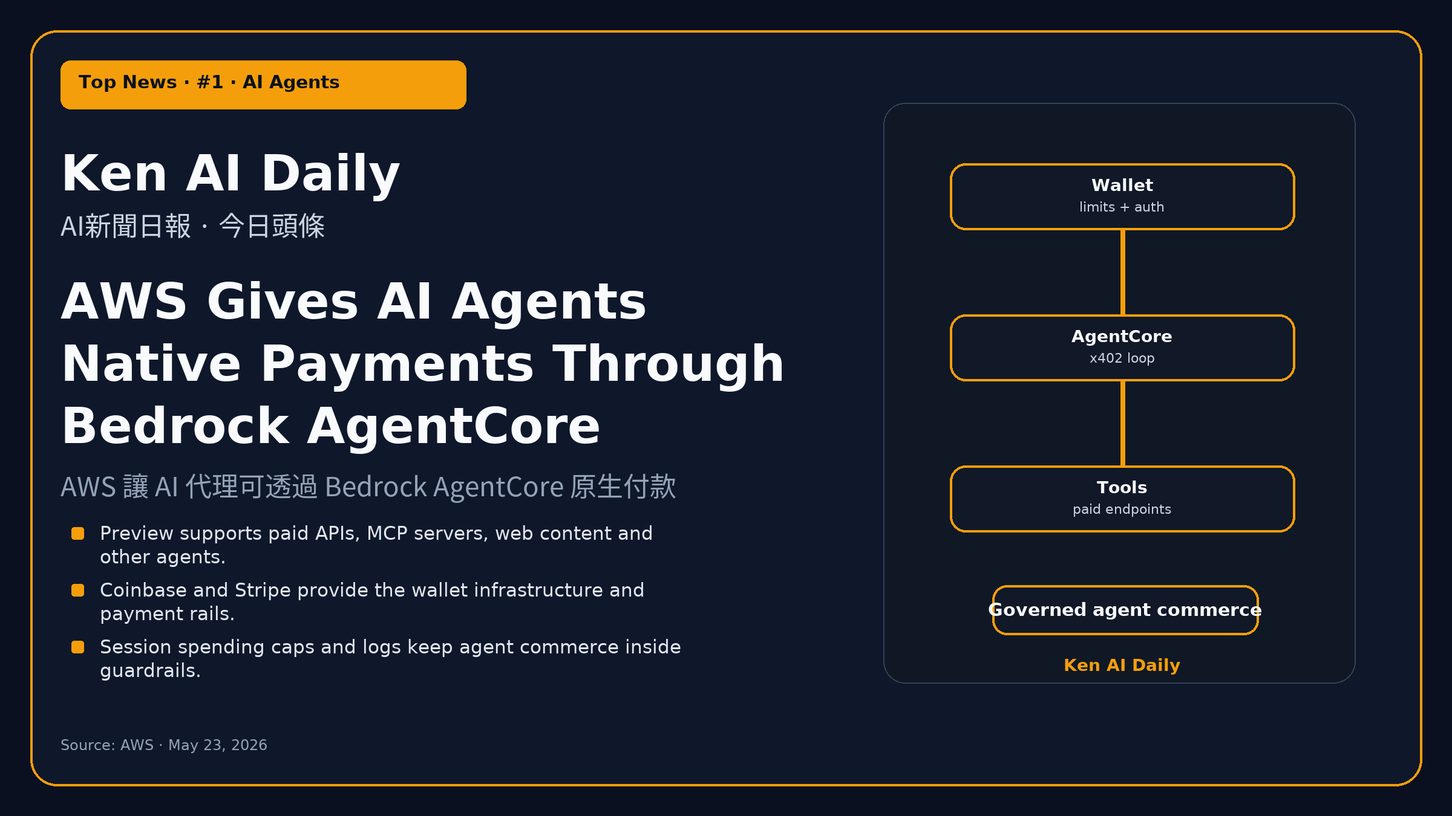
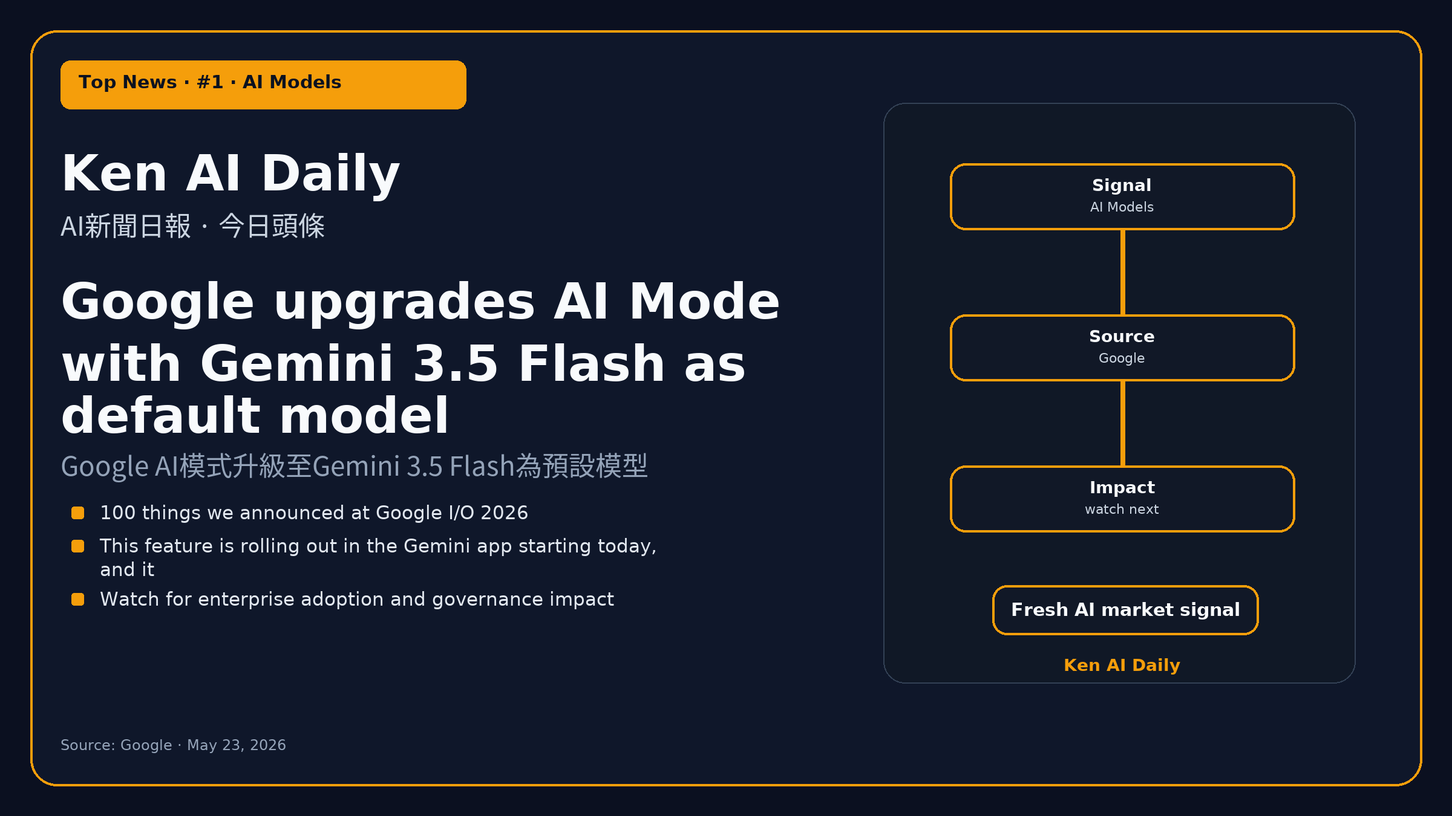
Daily AI brief - 2026-05-23

diff --git a/index.html b/index.html
@@ -943,13 +943,13 @@
     <div class="lead-text">
       <div class="kicker">The Cover Story · May 23</div>
       <h1 class="lead-headline">
-        AI is turning into a <em>governed operating stack for voice, tools, payments and launch control.</em>
+        Google puts <em>ai models</em> back in focus
       </h1>
       <p class="lead-deck">
-        From native agent payments and realtime voice models to secure MCP access, enterprise control planes, rising global usage and government pre-release testing, today&#x27;s AI market is shifting from isolated demos toward connected, measurable and governed production systems.
+        Today&#x27;s AI signals point to production systems, governance, infrastructure, and enterprise adoption.
       </p>
       <p class="lead-deck-zh">
-        從原生 agent 付款、即時語音模型，到安全的 MCP 連接、企業控制平面、上升的全球使用率與政府的發布前測試，AI 市場正由孤立 demo 轉向相互連接、可量化及可治理的 production 系統。
+        今日 AI 訊號聚焦生產化、治理、基建與企業落地。
       </p>
       <div class="lead-byline">
         <span><strong>By Ken Chan</strong></span>
@@ -972,10 +972,10 @@
      ═══════════════════════════════════════════════════════════ -->
 <section class="ticker">
   <div class="ticker-inner">
-    <div class="stat"><div class="label">Agent payments</div><div class="value">x402<span class="small">+ session caps</span></div></div>
-    <div class="stat"><div class="label">Realtime voice</div><div class="value">70+<span class="small">input languages</span></div></div>
-    <div class="stat"><div class="label">AWS MCP</div><div class="value">15k+<span class="small">API operations</span></div></div>
-    <div class="stat"><div class="label">AI diffusion</div><div class="value">17.8%<span class="small">global usage</span></div></div>
+    <div class="stat"><div class="label">Top signal</div><div class="value">AI Models<span class="small">lead story</span></div></div>
+    <div class="stat"><div class="label">Sources</div><div class="value">6<span class="small">ranked items</span></div></div>
+    <div class="stat"><div class="label">Focus</div><div class="value">AI<span class="small">business impact</span></div></div>
+    <div class="stat"><div class="label">Format</div><div class="value">EN+ZH<span class="small">daily brief</span></div></div>
   </div>
 </section>
 
@@ -1000,53 +1000,51 @@
 </div>
 <div class="post-card" id="post-20260523-1">
   <div class="post-meta">
-    <span class="post-cat" style="background:#f59e0b">AI Agents</span>
-    <span class="post-source">AWS</span>
+    <span class="post-cat" style="background:#f59e0b">AI Models</span>
+    <span class="post-source">Google</span>
     <span class="post-date">Saturday · May 23</span>
   </div>
-  <h2 class="post-title">AWS Gives AI Agents Native Payments Through Bedrock AgentCore</h2>
-  <p class="post-title-zh">AWS 讓 AI 代理可透過 Bedrock AgentCore 原生付款</p>
-  <p class="post-body">AWS previewed Bedrock AgentCore Payments so agents can pay for APIs, MCP servers, web content and other agents inside one execution loop. Built with Coinbase and Stripe, the service adds wallet authentication, per-session spending caps and observability, turning agent commerce into governed infrastructure instead of custom billing glue.</p>
-  <p class="post-body post-body-zh">AWS 預覽 Bedrock AgentCore Payments，讓 AI 代理可在單一執行迴圈內為 API、MCP server、網頁內容與其他代理付款。該服務由 Coinbase 與 Stripe 合作提供，加入 wallet 認證、每次 session 支出上限與可觀察性，讓 agent commerce 從自建收款邏輯變成可治理基礎設施。</p>
+  <h2 class="post-title">Google upgrades AI Mode with Gemini 3.5 Flash as default model</h2>
+  <p class="post-title-zh">Google AI模式升級至Gemini 3.5 Flash為預設模型</p>
+  <p class="post-body">AI Mode now uses Gemini 3.5 Flash, enhancing search experience globally</p>
+  <p class="post-body post-body-zh">AI模式現採用Gemini 3.5 Flash，全球搜索體驗升級。</p>
   <div class="post-infographic"><svg xmlns="http://www.w3.org/2000/svg" viewBox="0 0 580 320" style="background:#0f172a;border-radius:10px;width:100%;max-width:580px">
   <defs><linearGradient id="g202605231" x1="0" y1="0" x2="1" y2="1"><stop offset="0%" stop-color="#1e293b"/><stop offset="100%" stop-color="#0f172a"/></linearGradient></defs>
   <rect width="580" height="320" rx="10" fill="url(#g202605231)"/>
-  <text x="22" y="26" font-size="12" fill="#94a3b8" letter-spacing="1.4">AI AGENTS · AWS</text>
-  <text x="22" y="54" font-size="17" fill="#f8fafc" font-weight="800">AWS Gives AI Agents Native Payments Through AgentCore</text>
+  <text x="22" y="26" font-size="12" fill="#94a3b8" letter-spacing="1.4">AI MODELS · Google</text>
+  <text x="22" y="54" font-size="17" fill="#f8fafc" font-weight="800">Google upgrades AI Mode with Gemini 3.5 Flash as default model</text>
   
-<rect x="72" y="98" width="126" height="82" rx="16" fill="#111827" stroke="#f59e0b" stroke-width="4"/>
-<rect x="226" y="76" width="128" height="126" rx="18" fill="#111827" stroke="#f59e0b" stroke-width="4"/>
-<rect x="382" y="98" width="126" height="82" rx="16" fill="#111827" stroke="#f59e0b" stroke-width="4"/>
-<path d="M198 139 H226 M354 139 H382" stroke="#f59e0b" stroke-width="6" stroke-linecap="round"/>
-<text x="135" y="131" font-size="16" fill="#f8fafc" text-anchor="middle">Wallet</text>
-<text x="135" y="154" font-size="11" fill="#cbd5e1" text-anchor="middle">limits + auth</text>
-<text x="290" y="128" font-size="16" fill="#f8fafc" text-anchor="middle">AgentCore</text>
-<text x="290" y="151" font-size="11" fill="#cbd5e1" text-anchor="middle">x402 payment loop</text>
-<text x="445" y="131" font-size="16" fill="#f8fafc" text-anchor="middle">Tools</text>
-<text x="445" y="154" font-size="11" fill="#cbd5e1" text-anchor="middle">paid endpoints</text>
+<rect x="88" y="92" width="166" height="104" rx="18" fill="#111827" stroke="#f59e0b" stroke-width="4"/>
+<rect x="322" y="92" width="166" height="104" rx="18" fill="#111827" stroke="#f59e0b" stroke-width="4"/>
+<text x="171" y="132" font-size="18" fill="#f8fafc" text-anchor="middle">GPT-5.3</text>
+<text x="171" y="158" font-size="12" fill="#cbd5e1" text-anchor="middle">older default</text>
+<text x="405" y="132" font-size="18" fill="#f8fafc" text-anchor="middle">GPT-5.5</text>
+<text x="405" y="158" font-size="12" fill="#cbd5e1" text-anchor="middle">new default</text>
+<path d="M254 144 H322" stroke="#f59e0b" stroke-width="6" stroke-linecap="round"/>
+<text x="290" y="124" font-size="11" fill="#cbd5e1" text-anchor="middle">52.5% fewer hallucinations</text>
 
   <rect x="24" y="236" width="160" height="48" rx="8" fill="#111827" stroke="#334155"/><rect x="24" y="236" width="160" height="4" rx="2" fill="#f59e0b"/><text x="38" y="259" font-size="15" fill="#f8fafc" font-weight="800">#1</text><text x="38" y="276" font-size="10" fill="#94a3b8">ranking</text>
-  <rect x="204" y="236" width="160" height="48" rx="8" fill="#111827" stroke="#334155"/><rect x="204" y="236" width="160" height="4" rx="2" fill="#f59e0b"/><text x="218" y="259" font-size="15" fill="#f8fafc" font-weight="800">AI Agents</text><text x="218" y="276" font-size="10" fill="#94a3b8">category</text>
+  <rect x="204" y="236" width="160" height="48" rx="8" fill="#111827" stroke="#334155"/><rect x="204" y="236" width="160" height="4" rx="2" fill="#f59e0b"/><text x="218" y="259" font-size="15" fill="#f8fafc" font-weight="800">AI Models</text><text x="218" y="276" font-size="10" fill="#94a3b8">category</text>
   <rect x="384" y="236" width="160" height="48" rx="8" fill="#111827" stroke="#334155"/><rect x="384" y="236" width="160" height="4" rx="2" fill="#f59e0b"/><text x="398" y="259" font-size="15" fill="#f8fafc" font-weight="800">May 23</text><text x="398" y="276" font-size="10" fill="#94a3b8">HKT issue</text>
-  <text x="22" y="306" font-size="10" fill="#64748b">Source: AWS</text><text x="558" y="306" font-size="10" fill="#64748b" text-anchor="end">Ken AI Daily</text>
+  <text x="22" y="306" font-size="10" fill="#64748b">Source: Google</text><text x="558" y="306" font-size="10" fill="#64748b" text-anchor="end">Ken AI Daily</text>
 </svg></div>
-  <a class="post-link" href="https://aws.amazon.com/blogs/machine-learning/agents-that-transact-introducing-amazon-bedrock-agentcore-payments-built-with-coinbase-and-stripe/" target="_blank" rel="noopener">AWS →</a>
+  <a class="post-link" href="https://blog.google/innovation-and-ai/technology/ai/google-io-2026-all-our-announcements/" target="_blank" rel="noopener">Google →</a>
 </div>
 <div class="post-card" id="post-20260523-2">
   <div class="post-meta">
     <span class="post-cat" style="background:#06b6d4">AI Voice</span>
-    <span class="post-source">OpenAI</span>
+    <span class="post-source">MindStudio</span>
     <span class="post-date">Saturday · May 23</span>
   </div>
-  <h2 class="post-title">OpenAI Ships Voice Models That Reason, Translate and Transcribe</h2>
-  <p class="post-title-zh">OpenAI 推出可推理、翻譯與轉錄的語音模型</p>
-  <p class="post-body">OpenAI launched GPT-Realtime-2, GPT-Realtime-Translate and GPT-Realtime-Whisper in the Realtime API. The new stack adds GPT-5-class reasoning, live translation from 70+ input languages into 13 output languages and streaming speech-to-text, moving voice software from simple turn-taking toward action-oriented interfaces.</p>
-  <p class="post-body post-body-zh">OpenAI 在 Realtime API 推出 GPT-Realtime-2、GPT-Realtime-Translate 與 GPT-Realtime-Whisper。新語音堆疊加入 GPT-5 級推理，支援 70 多種輸入語言至 13 種輸出語言的即時翻譯，以及 streaming speech-to-text，讓語音軟件從單純對答轉向可執行工作的介面。</p>
+  <h2 class="post-title">Google I/O 2026: Every Major AI Announcement and What It Means for Builders | MindStudio</h2>
+  <p class="post-title-zh">MindStudio AI 更新：AI Voice</p>
+  <p class="post-body">Google announced Omni as its flagship multimodal model, designed to handle text, images, video, audio, and code in a single unified architecture - no modality-switching</p>
+  <p class="post-body post-body-zh">此消息顯示 AI 市場正從實驗走向更可治理、更可落地的應用。</p>
   <div class="post-infographic"><svg xmlns="http://www.w3.org/2000/svg" viewBox="0 0 580 320" style="background:#0f172a;border-radius:10px;width:100%;max-width:580px">
   <defs><linearGradient id="g202605232" x1="0" y1="0" x2="1" y2="1"><stop offset="0%" stop-color="#1e293b"/><stop offset="100%" stop-color="#0f172a"/></linearGradient></defs>
   <rect width="580" height="320" rx="10" fill="url(#g202605232)"/>
-  <text x="22" y="26" font-size="12" fill="#94a3b8" letter-spacing="1.4">AI VOICE · OpenAI</text>
-  <text x="22" y="54" font-size="17" fill="#f8fafc" font-weight="800">OpenAI Ships Voice Models That Reason and Translate</text>
+  <text x="22" y="26" font-size="12" fill="#94a3b8" letter-spacing="1.4">AI VOICE · MindStudio</text>
+  <text x="22" y="54" font-size="17" fill="#f8fafc" font-weight="800">Google I/O 2026: Every Major AI Announcement and What It...</text>
   
 <circle cx="132" cy="138" r="42" fill="#111827" stroke="#06b6d4" stroke-width="4"/>
 <path d="M114 118 Q132 100 150 118 Q132 136 114 154" fill="none" stroke="#06b6d4" stroke-width="5" stroke-linecap="round"/>
@@ -1062,145 +1060,137 @@
   <rect x="24" y="236" width="160" height="48" rx="8" fill="#111827" stroke="#334155"/><rect x="24" y="236" width="160" height="4" rx="2" fill="#06b6d4"/><text x="38" y="259" font-size="15" fill="#f8fafc" font-weight="800">#2</text><text x="38" y="276" font-size="10" fill="#94a3b8">ranking</text>
   <rect x="204" y="236" width="160" height="48" rx="8" fill="#111827" stroke="#334155"/><rect x="204" y="236" width="160" height="4" rx="2" fill="#06b6d4"/><text x="218" y="259" font-size="15" fill="#f8fafc" font-weight="800">AI Voice</text><text x="218" y="276" font-size="10" fill="#94a3b8">category</text>
   <rect x="384" y="236" width="160" height="48" rx="8" fill="#111827" stroke="#334155"/><rect x="384" y="236" width="160" height="4" rx="2" fill="#06b6d4"/><text x="398" y="259" font-size="15" fill="#f8fafc" font-weight="800">May 23</text><text x="398" y="276" font-size="10" fill="#94a3b8">HKT issue</text>
-  <text x="22" y="306" font-size="10" fill="#64748b">Source: OpenAI</text><text x="558" y="306" font-size="10" fill="#64748b" text-anchor="end">Ken AI Daily</text>
+  <text x="22" y="306" font-size="10" fill="#64748b">Source: MindStudio</text><text x="558" y="306" font-size="10" fill="#64748b" text-anchor="end">Ken AI Daily</text>
 </svg></div>
-  <a class="post-link" href="https://openai.com/index/advancing-voice-intelligence-with-new-models-in-the-api/" target="_blank" rel="noopener">OpenAI →</a>
+  <a class="post-link" href="https://www.mindstudio.ai/blog/google-io-2026-ai-announcements-builders" target="_blank" rel="noopener">MindStudio →</a>
 </div>
 <div class="post-card" id="post-20260523-3">
   <div class="post-meta">
     <span class="post-cat" style="background:#ef4444">AI Infrastructure</span>
-    <span class="post-source">AWS</span>
+    <span class="post-source">Google Cloud</span>
     <span class="post-date">Saturday · May 23</span>
   </div>
-  <h2 class="post-title">AWS MCP Server Reaches GA for Secure Agent Access to Cloud APIs</h2>
-  <p class="post-title-zh">AWS MCP Server 正式上市，讓代理安全連接雲端 API</p>
-  <p class="post-body">AWS made its managed MCP Server generally available, giving agents secure authenticated access to 15,000+ AWS APIs plus live documentation retrieval and sandboxed server-side scripting. The launch shows cloud vendors want agent access to become auditable infrastructure instead of a local credential hack.</p>
-  <p class="post-body post-body-zh">AWS 將其 managed MCP Server 推向 GA，讓 AI 代理可安全地使用 15,000 多個 AWS API，同時取得即時文件檢索與 sandboxed server-side scripting。這次發布顯示雲廠商正試圖將 agent access 變成可稽核的基礎設施，而不是本機憑證 workaround。</p>
+  <h2 class="post-title">AI and Cloud Computing Services | Google Cloud</h2>
+  <p class="post-title-zh">Google Cloud AI 更新：AI Infrastructure</p>
+  <p class="post-body">End-to-end migration program to simplify your path to the cloud. ... Ensure your business continuity needs are met. ... Google and Red Hat provide an enterprise-grade pla</p>
+  <p class="post-body post-body-zh">此消息顯示 AI 市場正從實驗走向更可治理、更可落地的應用。</p>
   <div class="post-infographic"><svg xmlns="http://www.w3.org/2000/svg" viewBox="0 0 580 320" style="background:#0f172a;border-radius:10px;width:100%;max-width:580px">
   <defs><linearGradient id="g202605233" x1="0" y1="0" x2="1" y2="1"><stop offset="0%" stop-color="#1e293b"/><stop offset="100%" stop-color="#0f172a"/></linearGradient></defs>
   <rect width="580" height="320" rx="10" fill="url(#g202605233)"/>
-  <text x="22" y="26" font-size="12" fill="#94a3b8" letter-spacing="1.4">AI INFRASTRUCTURE · AWS</text>
-  <text x="22" y="54" font-size="17" fill="#f8fafc" font-weight="800">AWS MCP Server Reaches GA for Secure Agent Access</text>
+  <text x="22" y="26" font-size="12" fill="#94a3b8" letter-spacing="1.4">AI INFRASTRUCTURE · Google Cloud</text>
+  <text x="22" y="54" font-size="17" fill="#f8fafc" font-weight="800">AI and Cloud Computing Services | Google Cloud</text>
   
-<rect x="74" y="98" width="120" height="82" rx="16" fill="#111827" stroke="#ef4444" stroke-width="4"/>
-<rect x="230" y="82" width="120" height="114" rx="18" fill="#111827" stroke="#ef4444" stroke-width="4"/>
-<rect x="386" y="98" width="120" height="82" rx="16" fill="#111827" stroke="#ef4444" stroke-width="4"/>
-<path d="M194 139 H230 M350 139 H386" stroke="#ef4444" stroke-width="6" stroke-linecap="round"/>
-<text x="134" y="131" font-size="15" fill="#f8fafc" text-anchor="middle">Agent</text>
-<text x="134" y="154" font-size="11" fill="#cbd5e1" text-anchor="middle">IAM auth</text>
-<text x="290" y="128" font-size="15" fill="#f8fafc" text-anchor="middle">MCP Server</text>
-<text x="290" y="151" font-size="11" fill="#cbd5e1" text-anchor="middle">docs + run_script</text>
-<text x="446" y="131" font-size="15" fill="#f8fafc" text-anchor="middle">AWS APIs</text>
-<text x="446" y="154" font-size="11" fill="#cbd5e1" text-anchor="middle">15k+ operations</text>
+<rect x="84" y="104" width="122" height="70" rx="14" fill="#111827" stroke="#ef4444" stroke-width="3"/>
+<rect x="228" y="86" width="122" height="106" rx="14" fill="#111827" stroke="#ef4444" stroke-width="3"/>
+<rect x="372" y="104" width="122" height="70" rx="14" fill="#111827" stroke="#ef4444" stroke-width="3"/>
+<path d="M206 139 H228 M350 139 H372" stroke="#ef4444" stroke-width="6" stroke-linecap="round"/>
+<text x="145" y="136" font-size="15" fill="#f8fafc" text-anchor="middle">Capital</text>
+<text x="289" y="128" font-size="15" fill="#f8fafc" text-anchor="middle">Cloud + TPU</text>
+<text x="289" y="151" font-size="11" fill="#cbd5e1" text-anchor="middle">5-year commitment</text>
+<text x="433" y="136" font-size="15" fill="#f8fafc" text-anchor="middle">Capacity</text>
 
   <rect x="24" y="236" width="160" height="48" rx="8" fill="#111827" stroke="#334155"/><rect x="24" y="236" width="160" height="4" rx="2" fill="#ef4444"/><text x="38" y="259" font-size="15" fill="#f8fafc" font-weight="800">#3</text><text x="38" y="276" font-size="10" fill="#94a3b8">ranking</text>
   <rect x="204" y="236" width="160" height="48" rx="8" fill="#111827" stroke="#334155"/><rect x="204" y="236" width="160" height="4" rx="2" fill="#ef4444"/><text x="218" y="259" font-size="15" fill="#f8fafc" font-weight="800">AI Infrastructure</text><text x="218" y="276" font-size="10" fill="#94a3b8">category</text>
   <rect x="384" y="236" width="160" height="48" rx="8" fill="#111827" stroke="#334155"/><rect x="384" y="236" width="160" height="4" rx="2" fill="#ef4444"/><text x="398" y="259" font-size="15" fill="#f8fafc" font-weight="800">May 23</text><text x="398" y="276" font-size="10" fill="#94a3b8">HKT issue</text>
-  <text x="22" y="306" font-size="10" fill="#64748b">Source: AWS</text><text x="558" y="306" font-size="10" fill="#64748b" text-anchor="end">Ken AI Daily</text>
+  <text x="22" y="306" font-size="10" fill="#64748b">Source: Google Cloud</text><text x="558" y="306" font-size="10" fill="#64748b" text-anchor="end">Ken AI Daily</text>
 </svg></div>
-  <a class="post-link" href="https://aws.amazon.com/blogs/aws/the-aws-mcp-server-is-now-generally-available/" target="_blank" rel="noopener">AWS →</a>
+  <a class="post-link" href="https://cloud.google.com/" target="_blank" rel="noopener">Google Cloud →</a>
 </div>
 <div class="post-card" id="post-20260523-4">
   <div class="post-meta">
-    <span class="post-cat" style="background:#f97316">Enterprise AI</span>
-    <span class="post-source">IBM</span>
+    <span class="post-cat" style="background:#f97316">AI Regulation</span>
+    <span class="post-source">Google DeepMind</span>
     <span class="post-date">Saturday · May 23</span>
   </div>
-  <h2 class="post-title">IBM Unveils an Agentic Control Plane and AI Stack at Think 2026</h2>
-  <p class="post-title-zh">IBM 在 Think 2026 推出代理控制平面與 AI 堆疊</p>
-  <p class="post-body">IBM used Think 2026 to push watsonx Orchestrate as a unified agentic control plane, alongside AI editions across core software, agentic data integration and MCP-enabled watsonx.data. The message is that enterprises are now buying governed orchestration layers, not isolated copilots.</p>
-  <p class="post-body post-body-zh">IBM 在 Think 2026 將 watsonx Orchestrate 定位為統一的 agentic control plane，並同步推出涵蓋 core software 的 AI editions、agentic data integration 與支援 MCP 的 watsonx.data。這代表企業開始購買可治理的 orchestration layer，而不是單點 copilots。</p>
+  <h2 class="post-title">Models - Google DeepMind</h2>
+  <p class="post-title-zh">Google DeepMind AI 更新：AI Regulation</p>
+  <p class="post-body">Explore our next generation AI systems View model cards Your browser does not support the video tag. Our latest family of models combining frontier intelligence with ac</p>
+  <p class="post-body post-body-zh">此消息顯示 AI 市場正從實驗走向更可治理、更可落地的應用。</p>
   <div class="post-infographic"><svg xmlns="http://www.w3.org/2000/svg" viewBox="0 0 580 320" style="background:#0f172a;border-radius:10px;width:100%;max-width:580px">
   <defs><linearGradient id="g202605234" x1="0" y1="0" x2="1" y2="1"><stop offset="0%" stop-color="#1e293b"/><stop offset="100%" stop-color="#0f172a"/></linearGradient></defs>
   <rect width="580" height="320" rx="10" fill="url(#g202605234)"/>
-  <text x="22" y="26" font-size="12" fill="#94a3b8" letter-spacing="1.4">ENTERPRISE AI · IBM</text>
-  <text x="22" y="54" font-size="17" fill="#f8fafc" font-weight="800">IBM Unveils an Agentic Control Plane at Think 2026</text>
+  <text x="22" y="26" font-size="12" fill="#94a3b8" letter-spacing="1.4">AI REGULATION · Google DeepMind</text>
+  <text x="22" y="54" font-size="17" fill="#f8fafc" font-weight="800">Models - Google DeepMind</text>
   
-<rect x="88" y="90" width="128" height="86" rx="16" fill="#111827" stroke="#f97316" stroke-width="4"/>
-<rect x="228" y="76" width="124" height="114" rx="18" fill="#111827" stroke="#f97316" stroke-width="4"/>
-<rect x="364" y="90" width="128" height="86" rx="16" fill="#111827" stroke="#f97316" stroke-width="4"/>
-<path d="M216 133 H228 M352 133 H364" stroke="#f97316" stroke-width="6" stroke-linecap="round"/>
-<text x="152" y="126" font-size="14" fill="#f8fafc" text-anchor="middle">Apps</text>
-<text x="152" y="148" font-size="11" fill="#cbd5e1" text-anchor="middle">data + workflows</text>
-<text x="290" y="125" font-size="14" fill="#f8fafc" text-anchor="middle">Control plane</text>
-<text x="290" y="148" font-size="11" fill="#cbd5e1" text-anchor="middle">observe + govern</text>
-<text x="428" y="126" font-size="14" fill="#f8fafc" text-anchor="middle">Agents</text>
-<text x="428" y="148" font-size="11" fill="#cbd5e1" text-anchor="middle">secure execution</text>
-
-  <rect x="24" y="236" width="160" height="48" rx="8" fill="#111827" stroke="#334155"/><rect x="24" y="236" width="160" height="4" rx="2" fill="#f97316"/><text x="38" y="259" font-size="15" fill="#f8fafc" font-weight="800">#4</text><text x="38" y="276" font-size="10" fill="#94a3b8">ranking</text>
-  <rect x="204" y="236" width="160" height="48" rx="8" fill="#111827" stroke="#334155"/><rect x="204" y="236" width="160" height="4" rx="2" fill="#f97316"/><text x="218" y="259" font-size="15" fill="#f8fafc" font-weight="800">Enterprise AI</text><text x="218" y="276" font-size="10" fill="#94a3b8">category</text>
-  <rect x="384" y="236" width="160" height="48" rx="8" fill="#111827" stroke="#334155"/><rect x="384" y="236" width="160" height="4" rx="2" fill="#f97316"/><text x="398" y="259" font-size="15" fill="#f8fafc" font-weight="800">May 23</text><text x="398" y="276" font-size="10" fill="#94a3b8">HKT issue</text>
-  <text x="22" y="306" font-size="10" fill="#64748b">Source: IBM</text><text x="558" y="306" font-size="10" fill="#64748b" text-anchor="end">Ken AI Daily</text>
-</svg></div>
-  <a class="post-link" href="https://www.ibm.com/new/announcements/ibm-announcements-at-think-2026" target="_blank" rel="noopener">IBM →</a>
-</div>
-<div class="post-card" id="post-20260523-5">
-  <div class="post-meta">
-    <span class="post-cat" style="background:#22c55e">AI Adoption</span>
-    <span class="post-source">Microsoft</span>
-    <span class="post-date">Saturday · May 23</span>
-  </div>
-  <h2 class="post-title">Microsoft Says Global AI Use Climbed to 17.8% in Q1 2026</h2>
-  <p class="post-title-zh">Microsoft 指 2026 年第一季全球 AI 使用率升至 17.8%</p>
-  <p class="post-body">Microsoft&#x27;s latest Global AI Diffusion Report said AI usage among the world&#x27;s working-age population rose from 16.3% to 17.8% in Q1 2026, with 26 economies now above 30% and global git pushes up 78% year over year. Adoption is no longer anecdotal; it is becoming measurable economic infrastructure.</p>
-  <p class="post-body post-body-zh">Microsoft 最新的 Global AI Diffusion Report 指出，2026 年第一季全球勞動年齡人口的 AI 使用率由 16.3% 升至 17.8%，現已有 26 個經濟體超過 30%，而全球 git pushes 亦按年大增 78%。AI 採用已不再只是感覺或 anecdotes，而正在成為可測量的經濟基礎設施。</p>
-  <div class="post-infographic"><svg xmlns="http://www.w3.org/2000/svg" viewBox="0 0 580 320" style="background:#0f172a;border-radius:10px;width:100%;max-width:580px">
-  <defs><linearGradient id="g202605235" x1="0" y1="0" x2="1" y2="1"><stop offset="0%" stop-color="#1e293b"/><stop offset="100%" stop-color="#0f172a"/></linearGradient></defs>
-  <rect width="580" height="320" rx="10" fill="url(#g202605235)"/>
-  <text x="22" y="26" font-size="12" fill="#94a3b8" letter-spacing="1.4">AI ADOPTION · Microsoft</text>
-  <text x="22" y="54" font-size="17" fill="#f8fafc" font-weight="800">Microsoft Says Global AI Use Climbed to 17.8%</text>
-  
-<rect x="112" y="116" width="64" height="82" rx="12" fill="#111827" stroke="#22c55e" stroke-width="4"/>
-<rect x="214" y="96" width="64" height="102" rx="12" fill="#111827" stroke="#22c55e" stroke-width="4"/>
-<rect x="316" y="72" width="64" height="126" rx="12" fill="#111827" stroke="#22c55e" stroke-width="4"/>
-<rect x="410" y="98" width="90" height="80" rx="16" fill="#111827" stroke="#22c55e" stroke-width="4"/>
-<text x="144" y="145" font-size="12" fill="#f8fafc" text-anchor="middle">16.3%</text>
-<text x="144" y="166" font-size="10" fill="#cbd5e1" text-anchor="middle">Q4 2025</text>
-<text x="246" y="135" font-size="12" fill="#f8fafc" text-anchor="middle">17.8%</text>
-<text x="246" y="156" font-size="10" fill="#cbd5e1" text-anchor="middle">Q1 2026</text>
-<text x="348" y="121" font-size="12" fill="#f8fafc" text-anchor="middle">26</text>
-<text x="348" y="142" font-size="10" fill="#cbd5e1" text-anchor="middle">economies</text>
-<text x="455" y="128" font-size="12" fill="#f8fafc" text-anchor="middle">Git pushes</text>
-<text x="455" y="150" font-size="12" fill="#f8fafc" text-anchor="middle">+78% YoY</text>
-
-  <rect x="24" y="236" width="160" height="48" rx="8" fill="#111827" stroke="#334155"/><rect x="24" y="236" width="160" height="4" rx="2" fill="#22c55e"/><text x="38" y="259" font-size="15" fill="#f8fafc" font-weight="800">#5</text><text x="38" y="276" font-size="10" fill="#94a3b8">ranking</text>
-  <rect x="204" y="236" width="160" height="48" rx="8" fill="#111827" stroke="#334155"/><rect x="204" y="236" width="160" height="4" rx="2" fill="#22c55e"/><text x="218" y="259" font-size="15" fill="#f8fafc" font-weight="800">AI Adoption</text><text x="218" y="276" font-size="10" fill="#94a3b8">category</text>
-  <rect x="384" y="236" width="160" height="48" rx="8" fill="#111827" stroke="#334155"/><rect x="384" y="236" width="160" height="4" rx="2" fill="#22c55e"/><text x="398" y="259" font-size="15" fill="#f8fafc" font-weight="800">May 23</text><text x="398" y="276" font-size="10" fill="#94a3b8">HKT issue</text>
-  <text x="22" y="306" font-size="10" fill="#64748b">Source: Microsoft</text><text x="558" y="306" font-size="10" fill="#64748b" text-anchor="end">Ken AI Daily</text>
-</svg></div>
-  <a class="post-link" href="https://blogs.microsoft.com/on-the-issues/2026/05/07/the-state-of-global-ai-diffusion-in-2026/" target="_blank" rel="noopener">Microsoft →</a>
-</div>
-<div class="post-card" id="post-20260523-6">
-  <div class="post-meta">
-    <span class="post-cat" style="background:#14b8a6">AI Regulation</span>
-    <span class="post-source">NIST / CAISI</span>
-    <span class="post-date">Saturday · May 23</span>
-  </div>
-  <h2 class="post-title">NIST Expands CAISI Testing Deals With Google DeepMind, Microsoft and xAI</h2>
-  <p class="post-title-zh">NIST 擴大 CAISI 與 Google DeepMind、Microsoft、xAI 的測試協議</p>
-  <p class="post-body">NIST said CAISI signed new agreements for pre-deployment evaluations, classified-environment testing and targeted research with Google DeepMind, Microsoft and xAI. As governments gain earlier access to unreleased models, frontier AI launches are starting to look more like regulated product approvals.</p>
-  <p class="post-body post-body-zh">NIST 表示，CAISI 已與 Google DeepMind、Microsoft 及 xAI 簽署新協議，涵蓋發布前評估、機密環境測試與針對性研究。隨著政府能更早接觸尚未公開的模型，前沿 AI 發布開始越來越像受監管的產品審批流程。</p>
-  <div class="post-infographic"><svg xmlns="http://www.w3.org/2000/svg" viewBox="0 0 580 320" style="background:#0f172a;border-radius:10px;width:100%;max-width:580px">
-  <defs><linearGradient id="g202605236" x1="0" y1="0" x2="1" y2="1"><stop offset="0%" stop-color="#1e293b"/><stop offset="100%" stop-color="#0f172a"/></linearGradient></defs>
-  <rect width="580" height="320" rx="10" fill="url(#g202605236)"/>
-  <text x="22" y="26" font-size="12" fill="#94a3b8" letter-spacing="1.4">AI REGULATION · NIST / CAISI</text>
-  <text x="22" y="54" font-size="17" fill="#f8fafc" font-weight="800">CAISI Expands Frontier AI Pre-Deployment Testing</text>
-  
-<rect x="82" y="94" width="124" height="88" rx="16" fill="#111827" stroke="#14b8a6" stroke-width="4"/>
-<rect x="228" y="78" width="124" height="120" rx="16" fill="#111827" stroke="#14b8a6" stroke-width="4"/>
-<rect x="374" y="94" width="124" height="88" rx="16" fill="#111827" stroke="#14b8a6" stroke-width="4"/>
-<path d="M206 138 H228 M352 138 H374" stroke="#14b8a6" stroke-width="6" stroke-linecap="round"/>
+<rect x="82" y="94" width="124" height="88" rx="16" fill="#111827" stroke="#f97316" stroke-width="4"/>
+<rect x="228" y="78" width="124" height="120" rx="16" fill="#111827" stroke="#f97316" stroke-width="4"/>
+<rect x="374" y="94" width="124" height="88" rx="16" fill="#111827" stroke="#f97316" stroke-width="4"/>
+<path d="M206 138 H228 M352 138 H374" stroke="#f97316" stroke-width="6" stroke-linecap="round"/>
 <text x="144" y="144" font-size="17" fill="#f8fafc" text-anchor="middle">Labs</text>
 <text x="290" y="132" font-size="17" fill="#f8fafc" text-anchor="middle">CAISI</text>
 <text x="290" y="156" font-size="12" fill="#cbd5e1" text-anchor="middle">pre-release evals</text>
 <text x="436" y="144" font-size="17" fill="#f8fafc" text-anchor="middle">Deploy</text>
 
-  <rect x="24" y="236" width="160" height="48" rx="8" fill="#111827" stroke="#334155"/><rect x="24" y="236" width="160" height="4" rx="2" fill="#14b8a6"/><text x="38" y="259" font-size="15" fill="#f8fafc" font-weight="800">#6</text><text x="38" y="276" font-size="10" fill="#94a3b8">ranking</text>
-  <rect x="204" y="236" width="160" height="48" rx="8" fill="#111827" stroke="#334155"/><rect x="204" y="236" width="160" height="4" rx="2" fill="#14b8a6"/><text x="218" y="259" font-size="15" fill="#f8fafc" font-weight="800">AI Regulation</text><text x="218" y="276" font-size="10" fill="#94a3b8">category</text>
-  <rect x="384" y="236" width="160" height="48" rx="8" fill="#111827" stroke="#334155"/><rect x="384" y="236" width="160" height="4" rx="2" fill="#14b8a6"/><text x="398" y="259" font-size="15" fill="#f8fafc" font-weight="800">May 23</text><text x="398" y="276" font-size="10" fill="#94a3b8">HKT issue</text>
-  <text x="22" y="306" font-size="10" fill="#64748b">Source: NIST / CAISI</text><text x="558" y="306" font-size="10" fill="#64748b" text-anchor="end">Ken AI Daily</text>
+  <rect x="24" y="236" width="160" height="48" rx="8" fill="#111827" stroke="#334155"/><rect x="24" y="236" width="160" height="4" rx="2" fill="#f97316"/><text x="38" y="259" font-size="15" fill="#f8fafc" font-weight="800">#4</text><text x="38" y="276" font-size="10" fill="#94a3b8">ranking</text>
+  <rect x="204" y="236" width="160" height="48" rx="8" fill="#111827" stroke="#334155"/><rect x="204" y="236" width="160" height="4" rx="2" fill="#f97316"/><text x="218" y="259" font-size="15" fill="#f8fafc" font-weight="800">AI Regulation</text><text x="218" y="276" font-size="10" fill="#94a3b8">category</text>
+  <rect x="384" y="236" width="160" height="48" rx="8" fill="#111827" stroke="#334155"/><rect x="384" y="236" width="160" height="4" rx="2" fill="#f97316"/><text x="398" y="259" font-size="15" fill="#f8fafc" font-weight="800">May 23</text><text x="398" y="276" font-size="10" fill="#94a3b8">HKT issue</text>
+  <text x="22" y="306" font-size="10" fill="#64748b">Source: Google DeepMind</text><text x="558" y="306" font-size="10" fill="#64748b" text-anchor="end">Ken AI Daily</text>
 </svg></div>
-  <a class="post-link" href="https://www.nist.gov/news-events/news/2026/05/caisi-signs-agreements-regarding-frontier-ai-national-security-testing" target="_blank" rel="noopener">NIST →</a>
+  <a class="post-link" href="https://deepmind.google/models/" target="_blank" rel="noopener">Google DeepMind →</a>
+</div>
+<div class="post-card" id="post-20260523-5">
+  <div class="post-meta">
+    <span class="post-cat" style="background:#22c55e">AI Models</span>
+    <span class="post-source">Inc.com</span>
+    <span class="post-date">Saturday · May 23</span>
+  </div>
+  <h2 class="post-title">Google&#x27;s Latest AI Model Could Save Companies Billions of Dollars</h2>
+  <p class="post-title-zh">Google最新AI模型可為公司節省數十億美元</p>
+  <p class="post-body">CEO Sundar Pichai told conference attendees that AI companies can save billions of dollars by switching to the new model</p>
+  <p class="post-body post-body-zh">Google CEO表示AI公司改用新模型可省數十億美元</p>
+  <div class="post-infographic"><svg xmlns="http://www.w3.org/2000/svg" viewBox="0 0 580 320" style="background:#0f172a;border-radius:10px;width:100%;max-width:580px">
+  <defs><linearGradient id="g202605235" x1="0" y1="0" x2="1" y2="1"><stop offset="0%" stop-color="#1e293b"/><stop offset="100%" stop-color="#0f172a"/></linearGradient></defs>
+  <rect width="580" height="320" rx="10" fill="url(#g202605235)"/>
+  <text x="22" y="26" font-size="12" fill="#94a3b8" letter-spacing="1.4">AI MODELS · Inc.com</text>
+  <text x="22" y="54" font-size="17" fill="#f8fafc" font-weight="800">Google&#x27;s Latest AI Model Could Save Companies Billions of...</text>
+  
+<rect x="88" y="92" width="166" height="104" rx="18" fill="#111827" stroke="#22c55e" stroke-width="4"/>
+<rect x="322" y="92" width="166" height="104" rx="18" fill="#111827" stroke="#22c55e" stroke-width="4"/>
+<text x="171" y="132" font-size="18" fill="#f8fafc" text-anchor="middle">GPT-5.3</text>
+<text x="171" y="158" font-size="12" fill="#cbd5e1" text-anchor="middle">older default</text>
+<text x="405" y="132" font-size="18" fill="#f8fafc" text-anchor="middle">GPT-5.5</text>
+<text x="405" y="158" font-size="12" fill="#cbd5e1" text-anchor="middle">new default</text>
+<path d="M254 144 H322" stroke="#22c55e" stroke-width="6" stroke-linecap="round"/>
+<text x="290" y="124" font-size="11" fill="#cbd5e1" text-anchor="middle">52.5% fewer hallucinations</text>
+
+  <rect x="24" y="236" width="160" height="48" rx="8" fill="#111827" stroke="#334155"/><rect x="24" y="236" width="160" height="4" rx="2" fill="#22c55e"/><text x="38" y="259" font-size="15" fill="#f8fafc" font-weight="800">#5</text><text x="38" y="276" font-size="10" fill="#94a3b8">ranking</text>
+  <rect x="204" y="236" width="160" height="48" rx="8" fill="#111827" stroke="#334155"/><rect x="204" y="236" width="160" height="4" rx="2" fill="#22c55e"/><text x="218" y="259" font-size="15" fill="#f8fafc" font-weight="800">AI Models</text><text x="218" y="276" font-size="10" fill="#94a3b8">category</text>
+  <rect x="384" y="236" width="160" height="48" rx="8" fill="#111827" stroke="#334155"/><rect x="384" y="236" width="160" height="4" rx="2" fill="#22c55e"/><text x="398" y="259" font-size="15" fill="#f8fafc" font-weight="800">May 23</text><text x="398" y="276" font-size="10" fill="#94a3b8">HKT issue</text>
+  <text x="22" y="306" font-size="10" fill="#64748b">Source: Inc.com</text><text x="558" y="306" font-size="10" fill="#64748b" text-anchor="end">Ken AI Daily</text>
+</svg></div>
+  <a class="post-link" href="https://www.inc.com/ben-sherry/googles-latest-ai-model-could-save-companies-billions-of-dollars/91346963" target="_blank" rel="noopener">Inc.com →</a>
+</div>
+<div class="post-card" id="post-20260523-6">
+  <div class="post-meta">
+    <span class="post-cat" style="background:#14b8a6">AI Models</span>
+    <span class="post-source">OpenAI</span>
+    <span class="post-date">Saturday · May 23</span>
+  </div>
+  <h2 class="post-title">OpenAI Model Disproves Central Conjecture in Discrete Geometry</h2>
+  <p class="post-title-zh">OpenAI模型推翻離散幾何核心猜想</p>
+  <p class="post-body">OpenAI model disproves a central conjecture in discrete geometry</p>
+  <p class="post-body post-body-zh">OpenAI模型推翻離散幾何中一個核心猜想。</p>
+  <div class="post-infographic"><svg xmlns="http://www.w3.org/2000/svg" viewBox="0 0 580 320" style="background:#0f172a;border-radius:10px;width:100%;max-width:580px">
+  <defs><linearGradient id="g202605236" x1="0" y1="0" x2="1" y2="1"><stop offset="0%" stop-color="#1e293b"/><stop offset="100%" stop-color="#0f172a"/></linearGradient></defs>
+  <rect width="580" height="320" rx="10" fill="url(#g202605236)"/>
+  <text x="22" y="26" font-size="12" fill="#94a3b8" letter-spacing="1.4">AI MODELS · OpenAI</text>
+  <text x="22" y="54" font-size="17" fill="#f8fafc" font-weight="800">OpenAI Model Disproves Central Conjecture in Discrete Geometry</text>
+  
+<rect x="88" y="92" width="166" height="104" rx="18" fill="#111827" stroke="#14b8a6" stroke-width="4"/>
+<rect x="322" y="92" width="166" height="104" rx="18" fill="#111827" stroke="#14b8a6" stroke-width="4"/>
+<text x="171" y="132" font-size="18" fill="#f8fafc" text-anchor="middle">GPT-5.3</text>
+<text x="171" y="158" font-size="12" fill="#cbd5e1" text-anchor="middle">older default</text>
+<text x="405" y="132" font-size="18" fill="#f8fafc" text-anchor="middle">GPT-5.5</text>
+<text x="405" y="158" font-size="12" fill="#cbd5e1" text-anchor="middle">new default</text>
+<path d="M254 144 H322" stroke="#14b8a6" stroke-width="6" stroke-linecap="round"/>
+<text x="290" y="124" font-size="11" fill="#cbd5e1" text-anchor="middle">52.5% fewer hallucinations</text>
+
+  <rect x="24" y="236" width="160" height="48" rx="8" fill="#111827" stroke="#334155"/><rect x="24" y="236" width="160" height="4" rx="2" fill="#14b8a6"/><text x="38" y="259" font-size="15" fill="#f8fafc" font-weight="800">#6</text><text x="38" y="276" font-size="10" fill="#94a3b8">ranking</text>
+  <rect x="204" y="236" width="160" height="48" rx="8" fill="#111827" stroke="#334155"/><rect x="204" y="236" width="160" height="4" rx="2" fill="#14b8a6"/><text x="218" y="259" font-size="15" fill="#f8fafc" font-weight="800">AI Models</text><text x="218" y="276" font-size="10" fill="#94a3b8">category</text>
+  <rect x="384" y="236" width="160" height="48" rx="8" fill="#111827" stroke="#334155"/><rect x="384" y="236" width="160" height="4" rx="2" fill="#14b8a6"/><text x="398" y="259" font-size="15" fill="#f8fafc" font-weight="800">May 23</text><text x="398" y="276" font-size="10" fill="#94a3b8">HKT issue</text>
+  <text x="22" y="306" font-size="10" fill="#64748b">Source: OpenAI</text><text x="558" y="306" font-size="10" fill="#64748b" text-anchor="end">Ken AI Daily</text>
+</svg></div>
+  <a class="post-link" href="https://openai.com/news/" target="_blank" rel="noopener">OpenAI →</a>
 </div>
 <div class="post-card post-visual" id="post-visual-20260522">
   <div class="post-meta">
